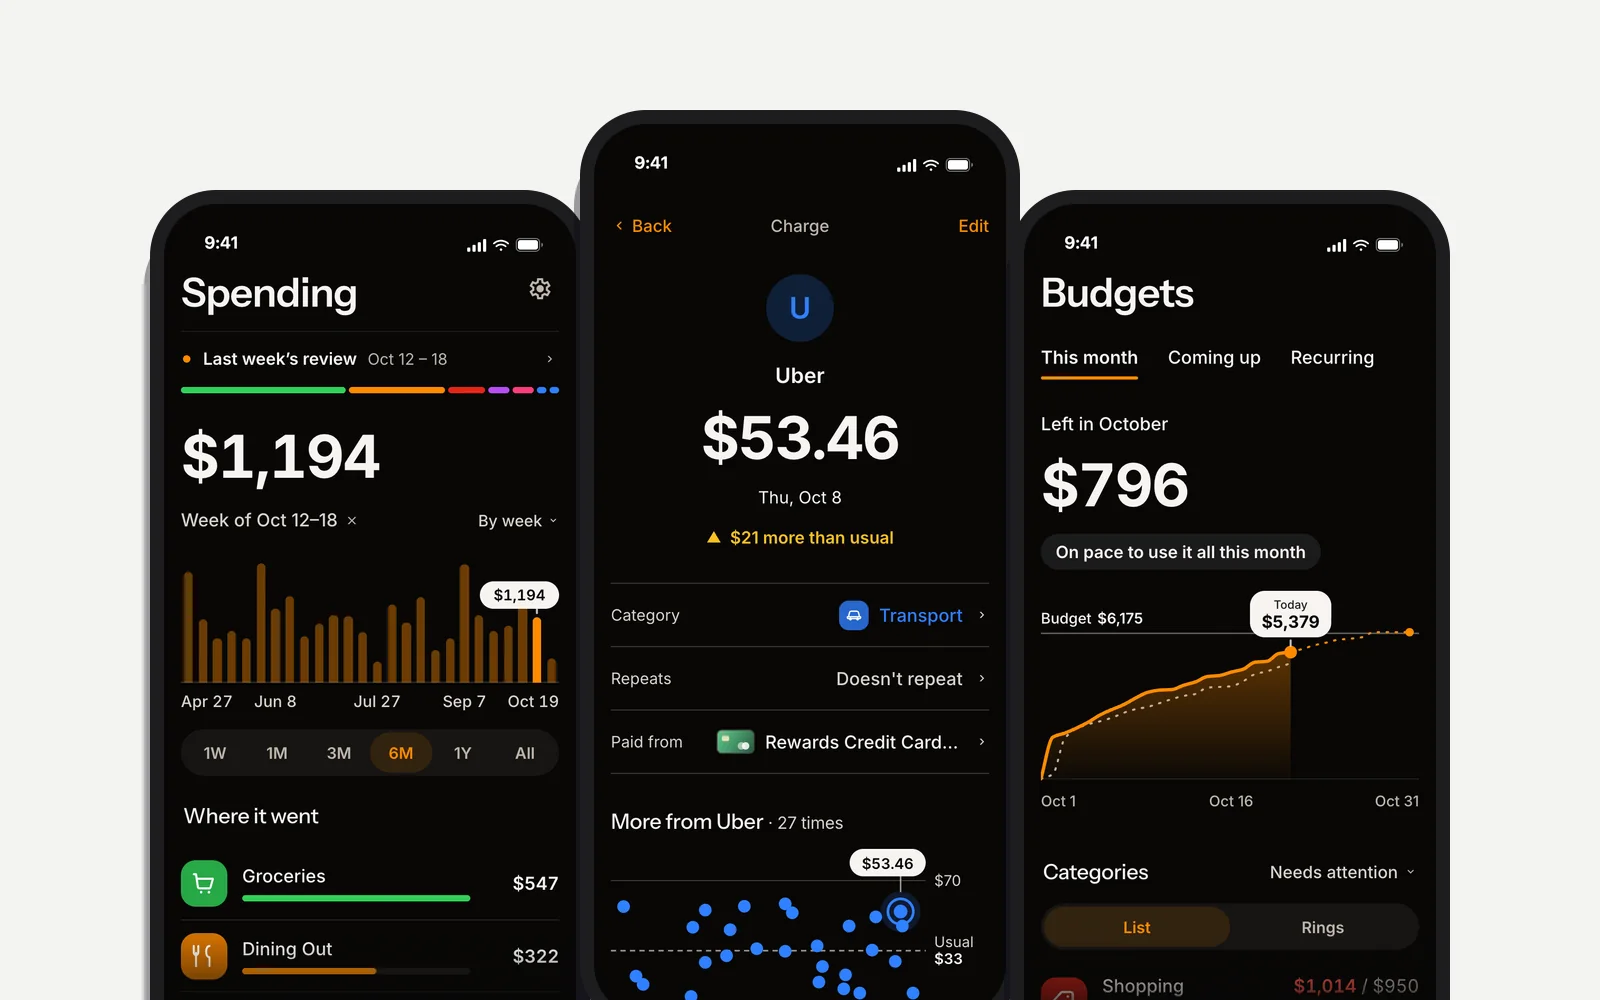
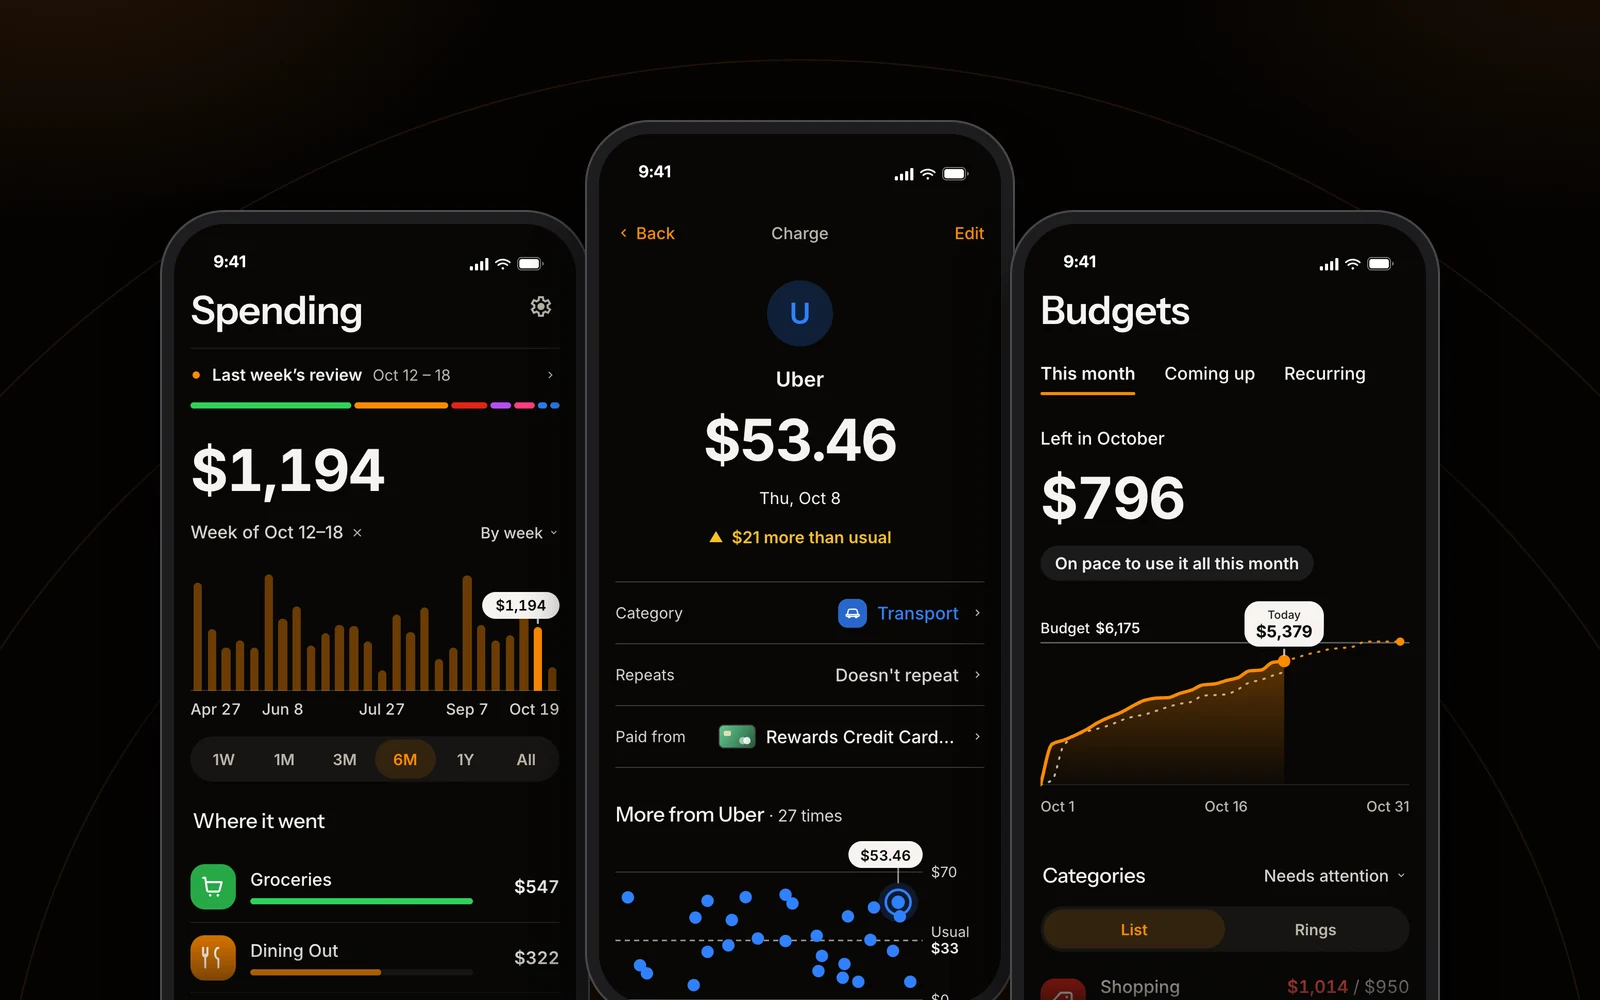
Designed cover art for LavaMesh and LavaQuant, matching dark cards for the phone apps
The LavaMesh and LavaQuant covers are now drawn from the apps' own components
and demo data (fleet ring, node panel, route approvals; score ring, KPIs,
platform fit, the real equity curve shape) on a dark ember background with
room around every card. Lava Money and Lava Tasks get the same background and
more space above the phones so the grid matches.

diff --git a/src/pages/Projects.svelte b/src/pages/Projects.svelte
@@ -13,7 +13,7 @@
       image: '/media/lavaquant/card.webp',
       bleed: true,
       hideLabel: true,
-      alt: 'LavaQuant: a 57 out of 100 score, six summary stats and an equity curve, with the same result on a phone',
+      alt: 'LavaQuant: a 57 out of 100 score, four summary stats, platform-fit checks and an equity curve',
     },
     {
       href: '/projects/lavamesh',
@@ -25,7 +25,7 @@
       image: '/media/lavamesh/card.webp',
       bleed: true,
       hideLabel: true,
-      alt: 'LavaMesh node fleet: 9 of 12 nodes online, a table of nodes with status, and the same page on a phone',
+      alt: 'LavaMesh: the node fleet with 9 of 12 online, one node\'s detail panel, and the subnet routing page with Approve buttons',
     },
     {
       href: '/projects/lavamoney',

diff --git a/src/pages/About.svelte b/src/pages/About.svelte
@@ -88,7 +88,7 @@
           <Mockup
             bleed
             src="/media/lavaquant/card.webp"
-            alt="LavaQuant: a 57 out of 100 score, six summary stats and an equity curve, with the same result on a phone"
+            alt="LavaQuant: a 57 out of 100 score, four summary stats, platform-fit checks and an equity curve"
           />
         </a>
       </article>
